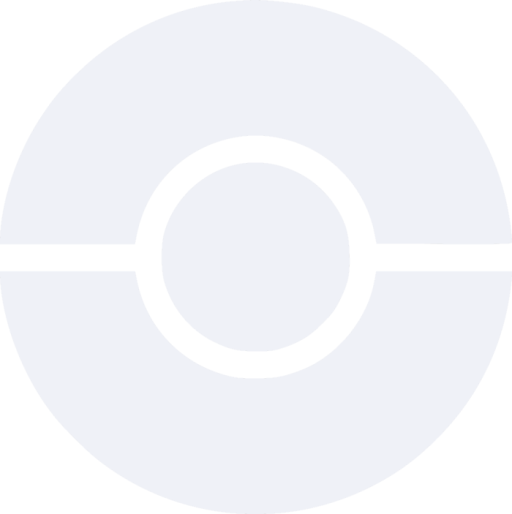
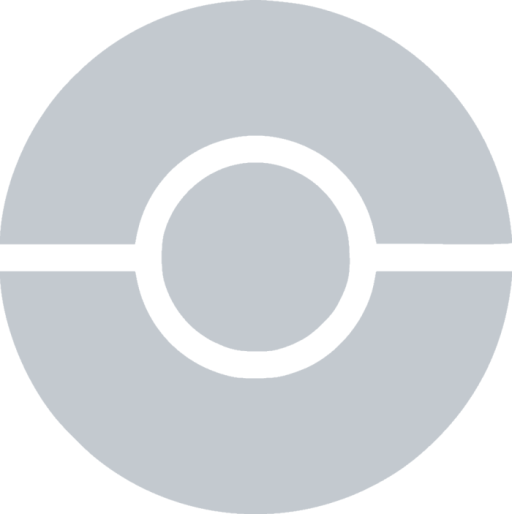
added loading to pokemon info slide

diff --git a/src/components/more-info-slide/index.tsx b/src/components/more-info-slide/index.tsx
@@ -19,6 +19,7 @@ import {
   noActivePokemonCardStyle,
   noActivePokemonSpriteStyle,
   pokemonInfoSlideContainer,
+  spinAnimate,
   statsContainer,
 } from "./style";
 import { AbilityTag } from "../pokemon-information/ability-tag";
@@ -28,7 +29,7 @@ import { pokemonDataDefault } from "../../utils/defaults";
 import { capitalise } from "../../utils/helpers";
 
 import defaultImage from "../../assets/default_pokemon_info.png";
-import pokeballLoader from "../../assets/pokeballIcon.png";
+import pokeballLoader from "../../assets/pokeball-icon.png";
 
 type MoreInfoSlideType = {
   activePokemonName: string;
@@ -80,7 +81,14 @@ export const MoreInfoSlide: React.FC<MoreInfoSlideType> = ({
   }, [pokemonData]);
 
   return (
-    <Box sx={{ width: "350px" }}>
+    <Box
+      sx={{
+        width: "350px",
+        display: "flex",
+        justifyContent: "center",
+        alignItems: "center",
+      }}
+    >
       <CustomCard sx={transition}>
         <>
           <Box sx={infoSlideContainer}>
@@ -143,6 +151,18 @@ export const MoreInfoSlide: React.FC<MoreInfoSlideType> = ({
           </Box>
         </>
       </CustomCard>
+      <Box
+        component="img"
+        src={pokeballLoader}
+        alt="Loading"
+        sx={{
+          position: "fixed",
+          animation: `${spinAnimate} 2s linear infinite`,
+          width: "70px",
+          top: "50vh",
+          zIndex: "-1",
+        }}
+      />
     </Box>
   );
 };

diff --git a/src/components/more-info-slide/style.ts b/src/components/more-info-slide/style.ts
@@ -1,3 +1,4 @@
+import { keyframes } from "@emotion/react";
 import { fontBgColour } from "../../utils/colours";
 
 export const pokemonInfoSlideContainer = {
@@ -63,3 +64,8 @@ export const statsContainer = {
   gap: "5px",
   width: "90%",
 };
+
+export const spinAnimate = keyframes`
+  0% { transform: rotate(0deg); }
+  100% { transform: rotate(360deg); }
+`;
